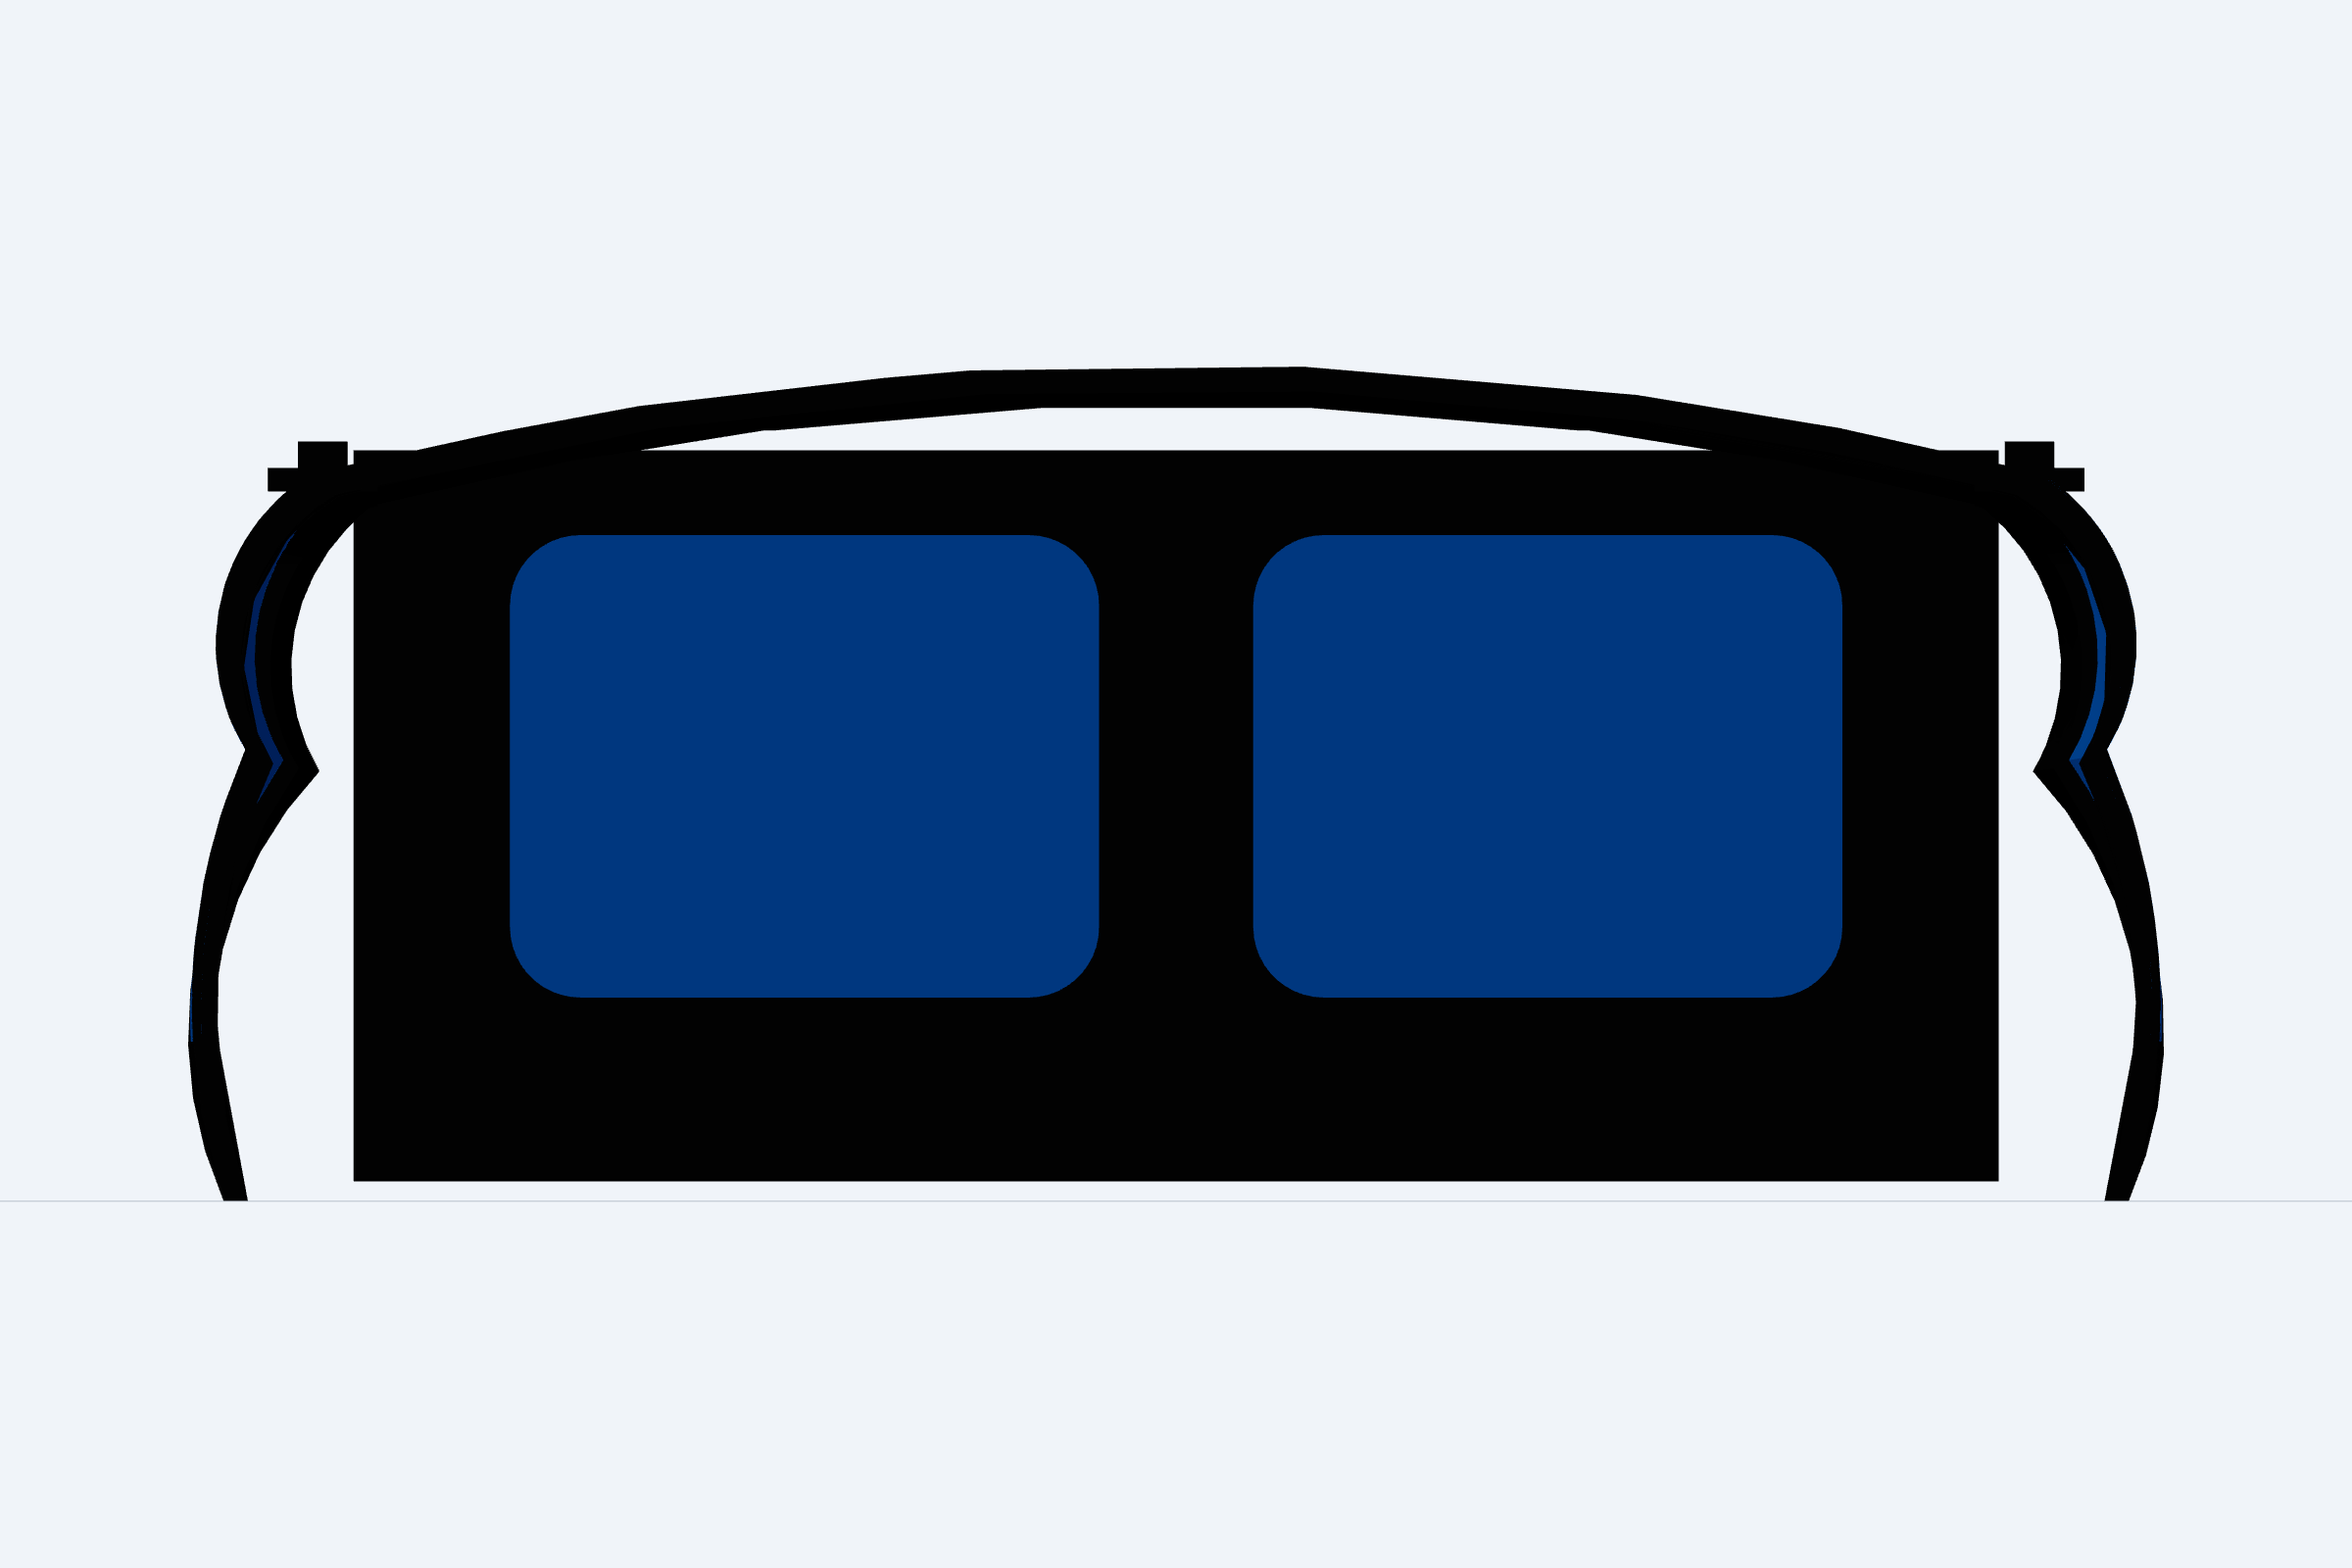
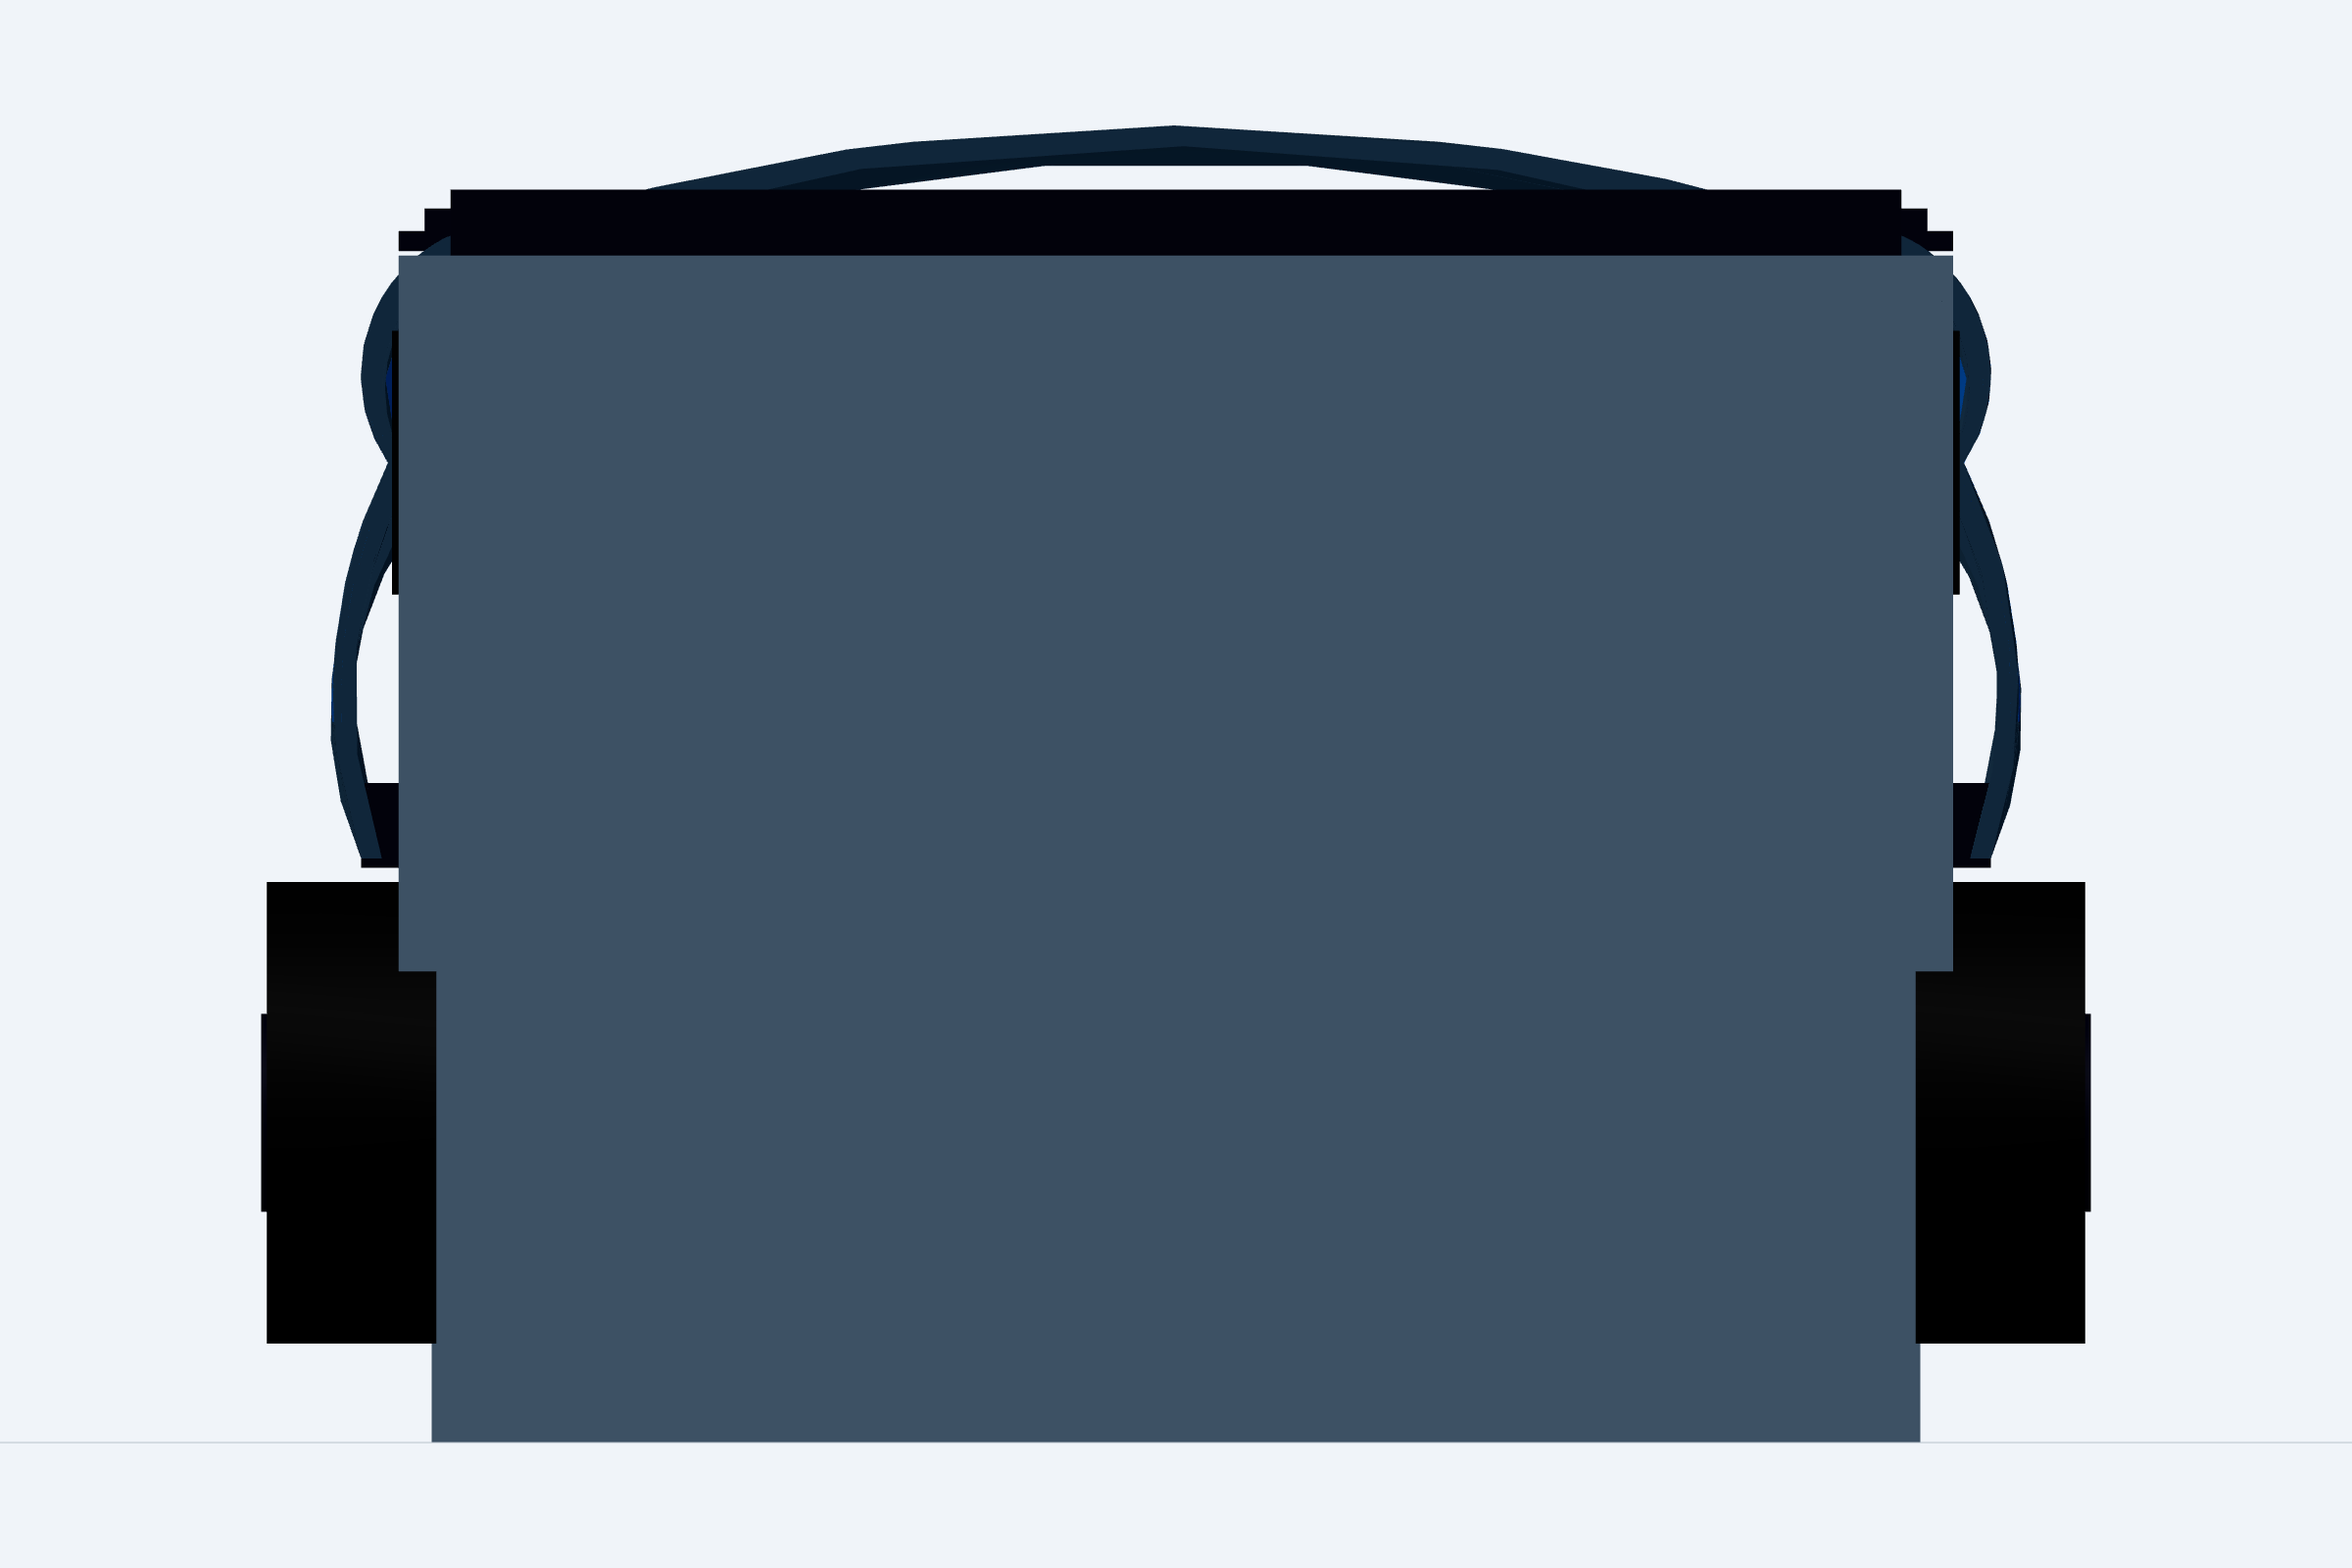
Rework Step 15 operator visual shell context

diff --git a/models/r1t_topper/cad/visual_review_step15.py b/models/r1t_topper/cad/visual_review_step15.py
@@ -7,7 +7,7 @@ the rear with one real two-light hatch.  The presentation model is not a
 fitment, sealing, capacity, or fabrication-release claim.
 """
 
-from build123d import Align, Axis, Box, Color, Compound, Edge, Face, Location, Plane, Rectangle, RectangleRounded, Wire, extrude, loft
+from build123d import Align, Axis, Box, Color, Compound, Cylinder, Edge, Face, Location, Plane, Rectangle, RectangleRounded, Wire, extrude, loft
 from cadpy.assembly import AssemblyHelper
 
 from parameters import (
@@ -32,11 +32,11 @@ from rear_hatch import (
 from mount_interfaces import make_topper_crossbar_ports
 
 
-CARBON_COLOR = Color(0.18, 0.21, 0.24, 1.0)
-CARBON_EDGE_COLOR = Color(0.08, 0.10, 0.13, 1.0)
+CARBON_COLOR = Color(0.30, 0.34, 0.38, 1.0)
+CARBON_EDGE_COLOR = Color(0.16, 0.19, 0.23, 1.0)
 GLAZING_COLOR = Color(0.08, 0.38, 0.56, 0.92)
-HATCH_CARBON_COLOR = Color(0.14, 0.17, 0.20, 1.0)
-INTEGRATED_PORT_COLOR = Color(0.11, 0.13, 0.16, 1.0)
+HATCH_CARBON_COLOR = Color(0.26, 0.30, 0.34, 1.0)
+INTEGRATED_PORT_COLOR = Color(0.20, 0.24, 0.28, 1.0)
 
 # Source-intent geometry: two broad, rounded lights on each side and two
 # rounded lights in one rear hatch.  The side bridge exceeds the 76 mm / 3 in
@@ -51,6 +51,14 @@ STRUCTURAL_CARBON_MINIMUM = 76.0
 STRUCTURAL_MULLION_WIDTH = 110.0
 REAR_MULLION_WIDTH = 140.0
 SIDE_CUT_DEPTH = 360.0
+
+# Presentation-only A-surface adjustment.  The authoritative Step 11 shell is
+# unchanged; this derivative deliberately carries a tighter crown and softer
+# shoulder break so the operator can judge the R1S-like roof language in a
+# vehicle context rather than against an isolated rectangular envelope.
+ROOF_WIDTH_SCALE = 0.88
+SHOULDER_WIDTH_REDUCTION = 18.0
+CROWN_LIFT = 18.0
 
 
 def _rounded_section(x: float, height: float, base_width: float, shoulder_width: float, roof_width: float) -> Face:
@@ -75,10 +83,10 @@ def _rounded_presentation_envelope(inset: float = 0.0):
     sections = [
         _rounded_section(
             value(cab_to_topper_nominal_gap) + fraction * value(topper_overall_length),
-            height - inset,
+            height + _crown * CROWN_LIFT / 35.0 - inset,
             base_width - 2.0 * inset,
-            shoulder_width - 2.0 * inset,
-            roof_width - 2.0 * inset,
+            shoulder_width - SHOULDER_WIDTH_REDUCTION - 2.0 * inset,
+            roof_width * ROOF_WIDTH_SCALE - 2.0 * inset,
         )
         for fraction, height, base_width, shoulder_width, roof_width, _crown in value(topper_silhouette_stations)
     ]
@@ -226,8 +234,109 @@ def make_integrated_crossbar_ports_presentation() -> Compound:
     return Compound(label="INTEGRATED_TOPPER_CROSSBAR_PORTS", children=children)
 
 
+def make_r1t_presentation_context() -> Compound:
+    """A restrained vehicle envelope so the operator can judge silhouette and scale.
+
+    This is not a fitment model and intentionally omits the engineering
+    keep-outs, datums, anchors, and service geometry from the reference package.
+    The pickup cues are enough to make the topper read as an R1T product rather
+    than an isolated box: cab mass, bed deck, tailgate, rails, and four wheels.
+    """
+    context_color = Color(0.40, 0.44, 0.48, 1.0)
+    glass_color = Color(0.06, 0.12, 0.16, 0.9)
+    tire_color = Color(0.035, 0.04, 0.045, 1.0)
+    wheel_color = Color(0.22, 0.25, 0.28, 1.0)
+
+    bed = Box(
+        value(topper_overall_length),
+        value(topper_base_outer_width) - 150.0,
+        120.0,
+        align=(Align.MIN, Align.CENTER, Align.MIN),
+    ).moved(Location((0.0, 0.0, -120.0)))
+    bed.label = "R1T_BED_CONTEXT"
+    bed.color = context_color
+
+    rail_children = []
+    for side, sign in (("DRIVER", 1.0), ("PASSENGER", -1.0)):
+        rail = Box(
+            value(topper_overall_length),
+            90.0,
+            90.0,
+            align=(Align.MIN, Align.CENTER, Align.MIN),
+        ).moved(Location((0.0, sign * (value(topper_base_outer_width) / 2.0 - 45.0), -10.0)))
+        rail.label = f"R1T_{side}_BED_RAIL_CONTEXT"
+        rail.color = wheel_color
+        rail_children.append(rail)
+
+    tailgate = Box(
+        85.0,
+        value(topper_base_outer_width) - 150.0,
+        500.0,
+        align=(Align.MIN, Align.CENTER, Align.MIN),
+    ).moved(Location((value(topper_overall_length) - 85.0, 0.0, -620.0)))
+    tailgate.label = "R1T_TAILGATE_CONTEXT"
+    tailgate.color = context_color
+
+    cab = Box(
+        520.0,
+        1650.0,
+        760.0,
+        align=(Align.MIN, Align.CENTER, Align.MIN),
+    ).moved(Location((-520.0, 0.0, -120.0)))
+    cab.label = "R1T_CAB_CONTEXT"
+    cab.color = context_color
+    cab_roof = Box(
+        520.0,
+        1540.0,
+        70.0,
+        align=(Align.MIN, Align.CENTER, Align.MIN),
+    ).moved(Location((-520.0, 0.0, 640.0)))
+    cab_roof.label = "R1T_CAB_ROOF_CONTEXT"
+    cab_roof.color = wheel_color
+
+    side_glass = []
+    for side, sign in (("DRIVER", 1.0), ("PASSENGER", -1.0)):
+        window = Box(
+            340.0,
+            12.0,
+            280.0,
+            align=(Align.MIN, Align.CENTER, Align.MIN),
+        ).moved(Location((-410.0, sign * 826.0, 280.0)))
+        window.label = f"R1T_{side}_CAB_GLASS_CONTEXT"
+        window.color = glass_color
+        side_glass.append(window)
+
+    wheels = []
+    for axle_x in (170.0, 1110.0):
+        for side, sign in (("DRIVER", 1.0), ("PASSENGER", -1.0)):
+            tire = Cylinder(
+                245.0,
+                180.0,
+                align=(Align.CENTER, Align.CENTER, Align.CENTER),
+                rotation=(90.0, 0.0, 0.0),
+            ).moved(Location((axle_x, sign * 875.0, -270.0)))
+            tire.label = f"R1T_{side}_{int(axle_x)}_WHEEL_CONTEXT"
+            tire.color = tire_color
+            wheels.append(tire)
+            hub = Cylinder(
+                105.0,
+                186.0,
+                align=(Align.CENTER, Align.CENTER, Align.CENTER),
+                rotation=(90.0, 0.0, 0.0),
+            ).moved(Location((axle_x, sign * 878.0, -270.0)))
+            hub.label = f"R1T_{side}_{int(axle_x)}_HUB_CONTEXT"
+            hub.color = wheel_color
+            wheels.append(hub)
+
+    return Compound(
+        label="R1T_VEHICLE_PRESENTATION_CONTEXT",
+        children=[bed, *rail_children, tailgate, cab, cab_roof, *side_glass, *wheels],
+    )
+
+
 def gen_step():
     assembly = AssemblyHelper("R1T_TOPPER_STEP15_OPERATOR_VISUAL")
+    assembly.add(make_r1t_presentation_context(), "R1T_VEHICLE_PRESENTATION_CONTEXT")
     assembly.add(make_continuous_carbon_shell(), "CONTINUOUS_ROUNDED_CARBON_SHELL")
     assembly.add(make_curved_side_glazing(), "CURVED_SIDE_GLAZING")
     assembly.add(make_visual_review_hatch_leaf(), "SINGLE_REAR_HATCH_LEAF")

diff --git a/models/r1t_topper/cad/step15_checks.py b/models/r1t_topper/cad/step15_checks.py
@@ -89,6 +89,7 @@ def _mutation_test() -> None:
 def _contract_checks() -> dict[str, bool]:
     root_labels = {child.label for child in gen_step().children}
     required_roots = {
+        "R1T_VEHICLE_PRESENTATION_CONTEXT",
         "CONTINUOUS_ROUNDED_CARBON_SHELL",
         "CURVED_SIDE_GLAZING",
         "SINGLE_REAR_HATCH_LEAF",

diff --git a/models/r1t_topper/reports/STEP15_OPERATOR_VISUAL_REPORT.md b/models/r1t_topper/reports/STEP15_OPERATOR_VISUAL_REPORT.md
@@ -4,22 +4,27 @@ This package is a presentation-only derivative of the independently verified
 Step 11 geometry at commit `6e0229cecefee0043aed9ea607c5241c1fe7f815`.
 
 The visible exterior is a freshly re-embodied continuous rounded loft: its
-sidewalls, shoulder transitions, and crown use radiused curves rather than the
-old flat six-cartridge form. Each side has exactly two broad shell-conformal
-glazing lights with actual radiused cut geometry. The 110 mm carbon bridge
-between those lights is positive remaining shell material and exceeds the 76 mm
-/ three-inch minimum. The rear is one clean, closed, continuous-corner hatch
+sidewalls, shoulder transitions, and crowned roof use radiused curves rather
+than the old flat six-cartridge form. The review packet includes a restrained
+R1T presentation context (cab mass, bed, tailgate, rails, and wheels) so the
+roof/side/corner relationship is judged on a recognizable pickup rather than
+as an isolated shell. Each side has exactly two broad shell-conformal glazing
+lights with actual radiused cut geometry. The 110 mm carbon bridge between
+those lights is positive remaining shell material and exceeds the 76 mm /
+three-inch minimum. The rear is one clean, closed, continuous-corner hatch
 leaf with exactly two rounded broad panes and a 140 mm center carbon bridge.
 No duplicated hatch leaf or top-center protrusion is included.
 
 The B-side hatch derivative explicitly carries the closed and open panel,
 continuous frame, hinge/latch package, seal, gutter, and drainage package; it
 is inspectable without obscuring the operator's clean closed-product render.
-The `00_REFERENCE` truck dummy and engineering keep-outs are excluded from the
-review assembly. The eight retained port/hardpoint envelopes are re-seated into
-the curved crown and are shell-intersecting topper-owned interfaces only. No
-rigid or freestanding `CROSSBAR_REFERENCE` bar is included; an accessory bar is
-a separate fit-check item, not product geometry.
+The engineering `00_REFERENCE` dummy and keep-outs are excluded from the review
+assembly; the new presentation context is deliberately limited to recognizable
+vehicle cues and carries no fitment authority. The eight retained
+port/hardpoint envelopes are re-seated into the curved crown and are
+shell-intersecting topper-owned interfaces only. No rigid or freestanding
+`CROSSBAR_REFERENCE` bar is included; an accessory bar is a separate fit-check
+item, not product geometry.
 
 The dimensions remain provisional visual-design controls. This artifact does
 not claim calibrated fitment, sealing performance, structural rating,
